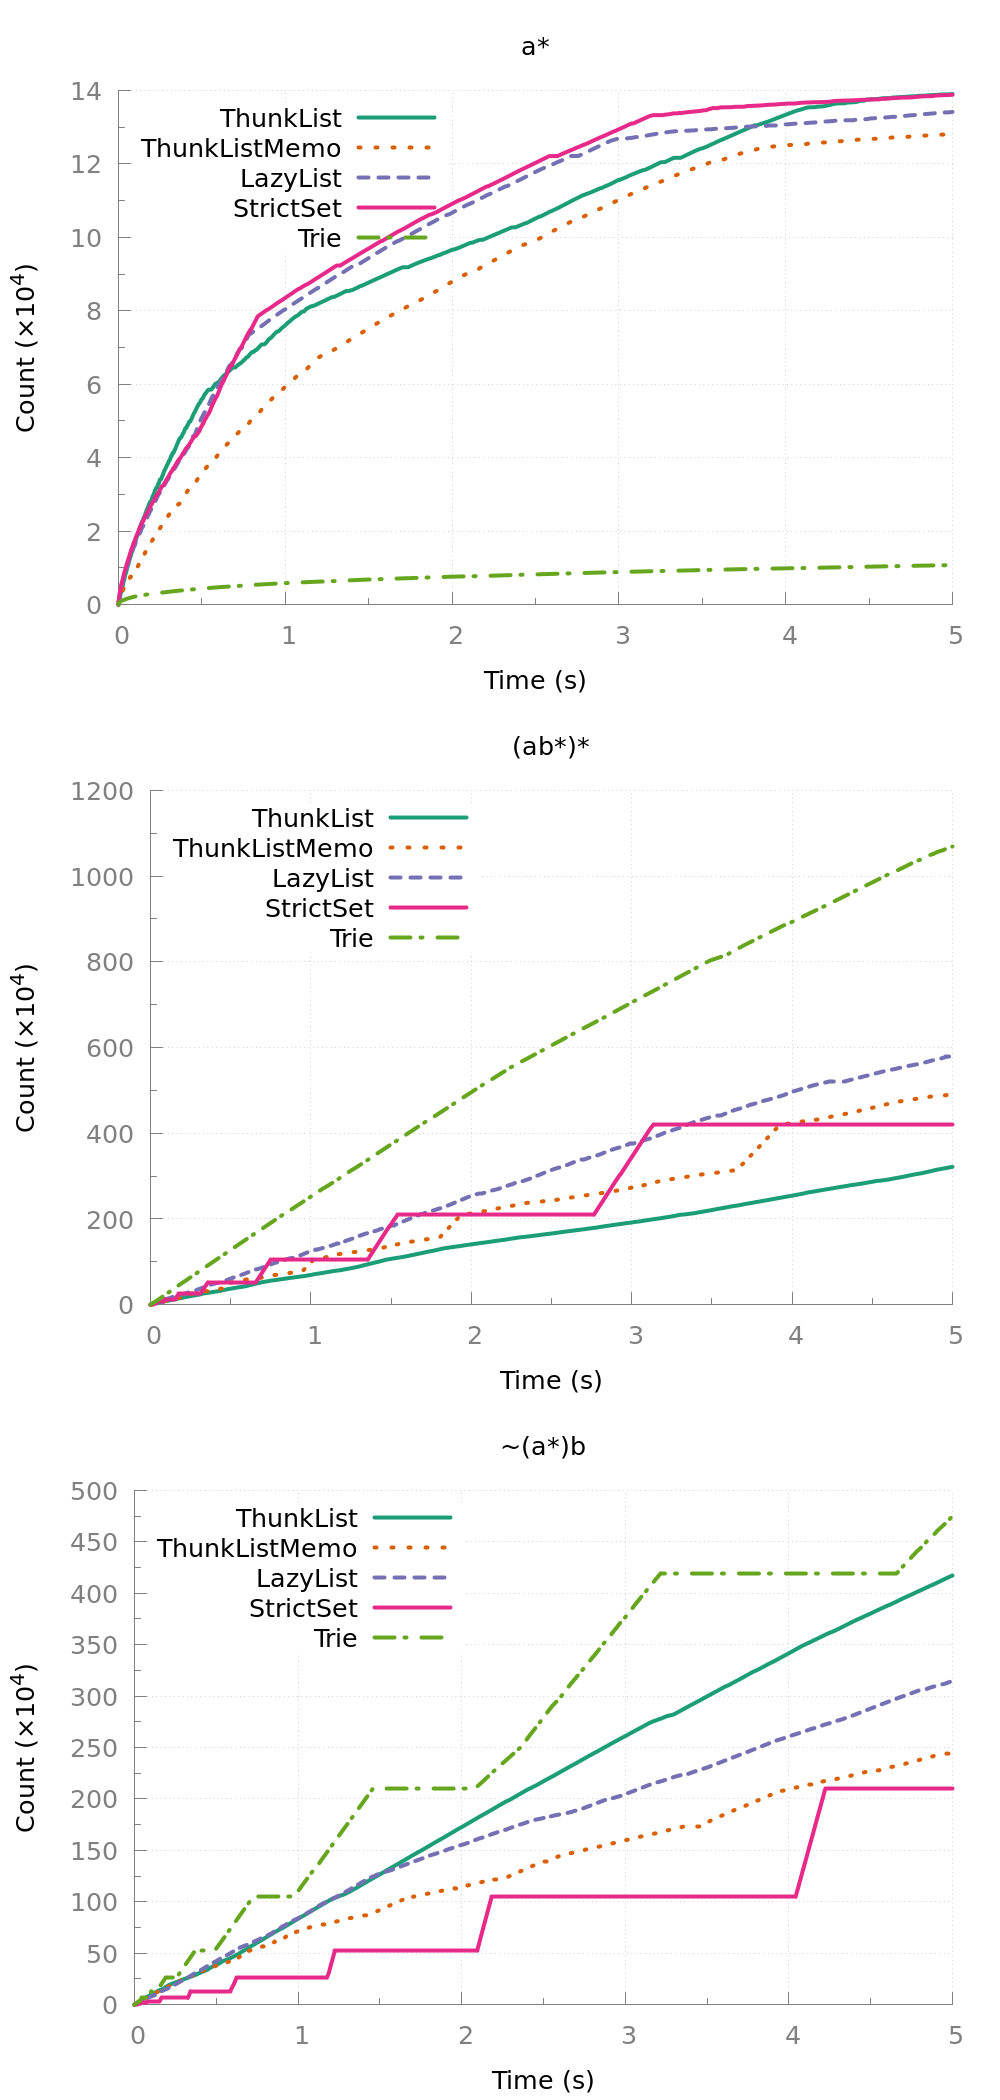
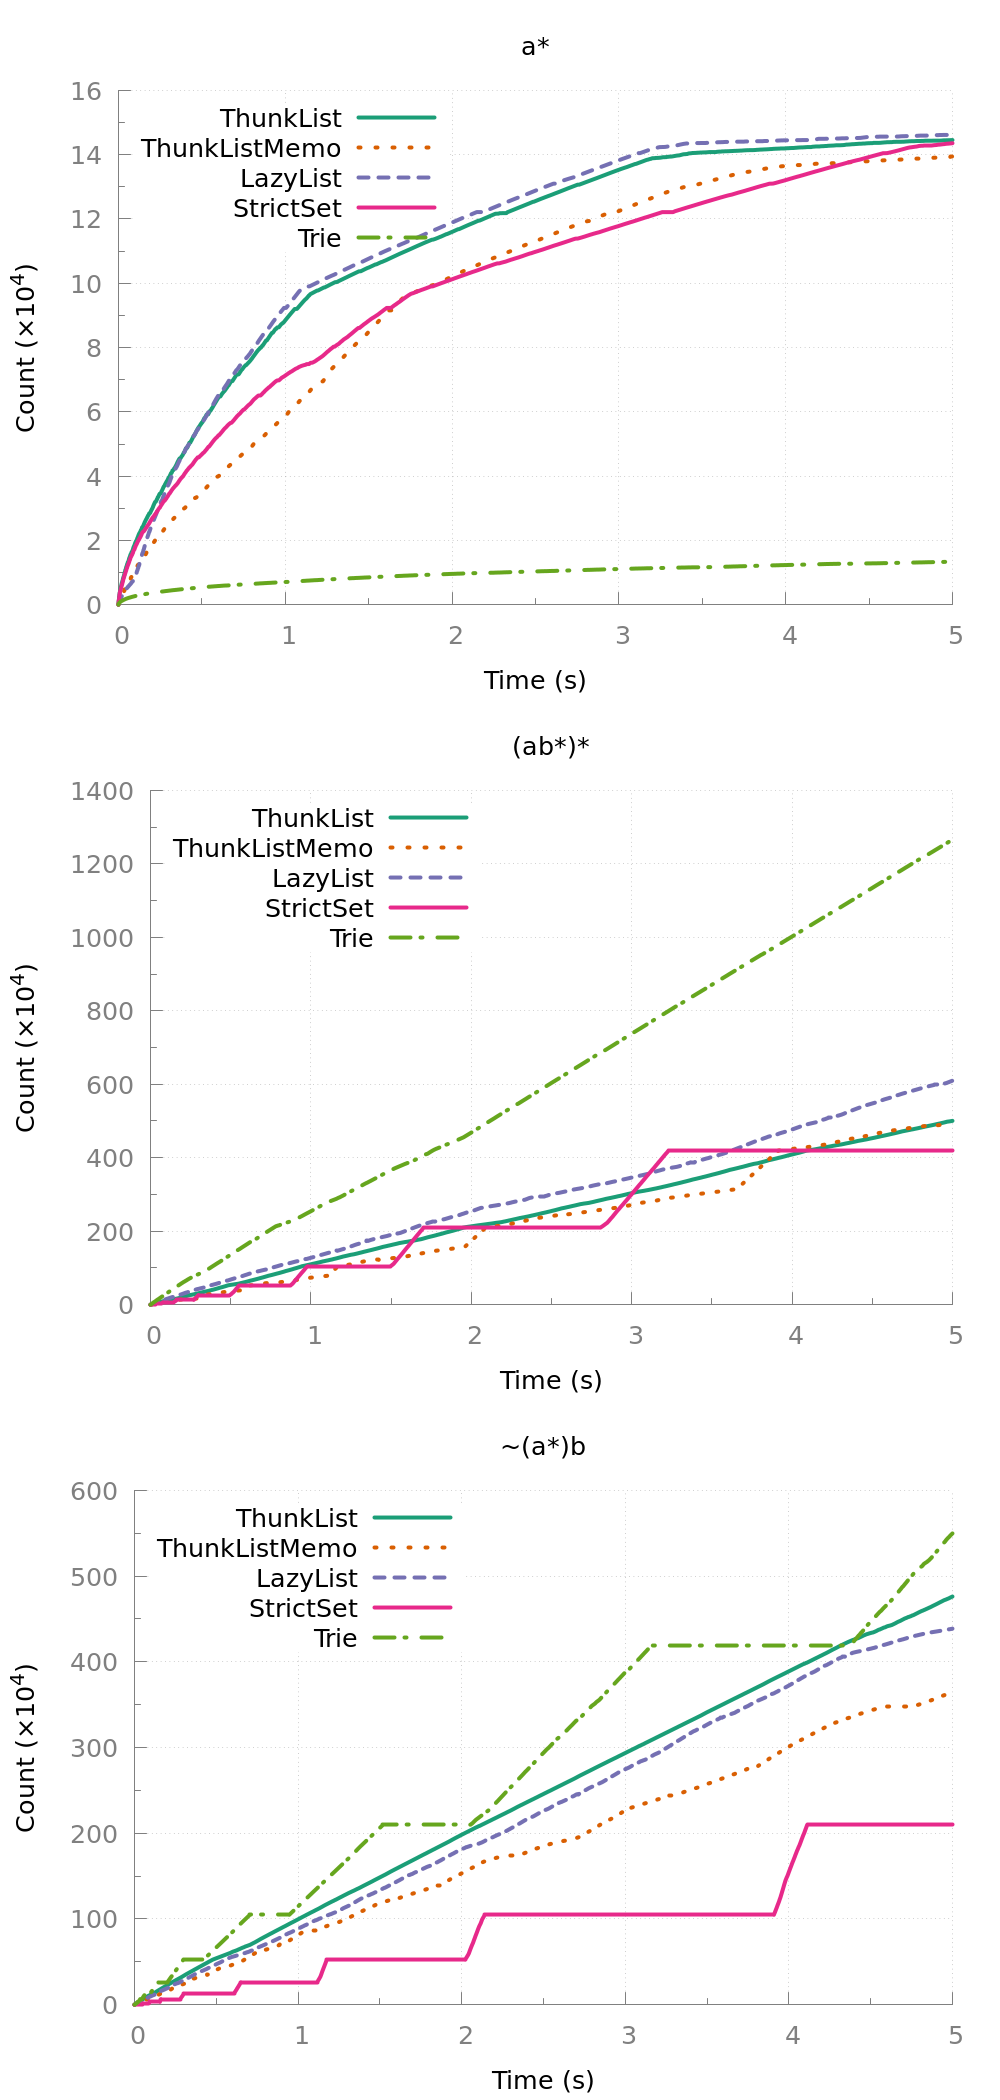
Cleanup/Refresh the OCaml benchmarks.

diff --git a/bench.tex b/bench.tex
@@ -1,6 +1,9 @@
 \section{Benchmarks}
 \label{sec:bench}
 
+% Remove indentation on all itemize lists.
+\setlist[itemize]{leftmargin=*}
+
 This section compares the performance of our implementations in two dimensions.
 First, we compare the successive algorithmic refinements using the \haskell
 implementation presented in \cref{sec:motivation} and \cref{sec:improvements}.
@@ -138,31 +141,35 @@ $\Rconcat{\Rcomplement{(\Rstar{a})}}{b}$.  The results are shown in
 \cref{bench:ocaml:all}.
 
 Unlike the previous benchmark for algorithms, there is no clear winner
-among the data structures. The \code{ThunkList} and \code{LazyList} modules seem to
-be superior to the alternatives, although the results are highly influenced by
-the regular expression considered.
+among the data structures.
+Lazy and Thunk lists, with or without memoizations, are the most ``well-rounded''
+implementations and perform decently on most languages.
+We can however make the following remarks.
 \begin{itemize}[leftmargin=*]
-\item The \code{Trie} module is very inefficient on $\Rstar a$ because
-  our implementation of tries does not use path compression.
-  In the case of $\Rstar a$, where each segment contains only one word, the
+\item The \code{Trie} module,
+  while very efficient otherwise thanks to its efficient concatenation,
+  performs badly on $\Rstar a$.
+  This is likely due to the lack of path compression:
+  in the case of $\Rstar a$, where each segment contains only one word, the
   trie degenerates to a list of characters.
-  We believe
-  an implementation of tries with path compressions would perform significantly better.
+  We believe an implementation of tries with path compressions would perform
+  significantly better.
 \item The other data structures exhibit a very pronounced slowdown on $\Rstar a$
   when reaching 150000 words.
   We believe this slowdown is due to garbage collection because
   the active heap contained 10G of data before
   a collection was triggered. Much less memory is consumed for the other regular
-  expression.
+  expressions.
 \item The strict data structures showcase a very marked ``skewed
   stair'' pattern, which is completely absent for \code{ThunkList} and
   \code{LazyList}. Thus, manual control of laziness works very well in
   \ocaml. These results also demonstrate that strict data structures
   should only be used when all elements up to a given length are
   needed. In such a case the stair pattern causes no problems.
-\item Memoization for thunk lists significantly degrades performance. It seems
-  that the linear cost of memoizing the thunk list and allocating the vectors
-  is higher than simply recomputing lists.
+\item Memoization for thunk lists does not significantly increase performances.
+  It seems that the linear cost of memoizing the thunk list and
+  allocating the vectors
+  is often higher than simply recomputing lists.
 \end{itemize}
 
 
@@ -186,7 +193,8 @@ these two regular expressions are presented in
 \cref{bench:ocaml:union}.  Lazy and thunk lists, with or without
 memoization, are very efficient on the union and intersection of
 languages but less so when concatenation is involved. Performance of
-strict sets and tries is surprisingly poor.
+strict sets is surprisingly poor.
+Tries are very efficient on concatenations.
 
 \subsection{The Influence of Regular Expressions on Performance}
 \begin{figure*}[tp]
@@ -200,7 +208,7 @@ strict sets and tries is surprisingly poor.
   \begin{subfigure}[t]{0.5\linewidth}
     \centering
     \includegraphics[width=\linewidth]{measure/ocaml_langs.png}
-    \caption{\ocaml implementation with \code{ThunkList}}
+    \caption{\ocaml implementation with \code{LazyList}}
     \label{bench:ocaml:langs}
   \end{subfigure}
   \caption{Benchmark on different regular expressions}
@@ -211,7 +219,7 @@ The benchmark results so far demonstrate that the performance of the language
 generator highly depends on the structure of both
 the generated language and the regular expression considered.
 To further explore this observation we compare a range of regular expressions
-with the \code{refConv} \haskell implementation and the \code{ThunkList}
+with the \code{refConv} \haskell implementation and the \code{LazyList}
 \ocaml implementation.
 Before presenting the results, a word of warning:
 We do not claim to offer a fair comparison between languages!
